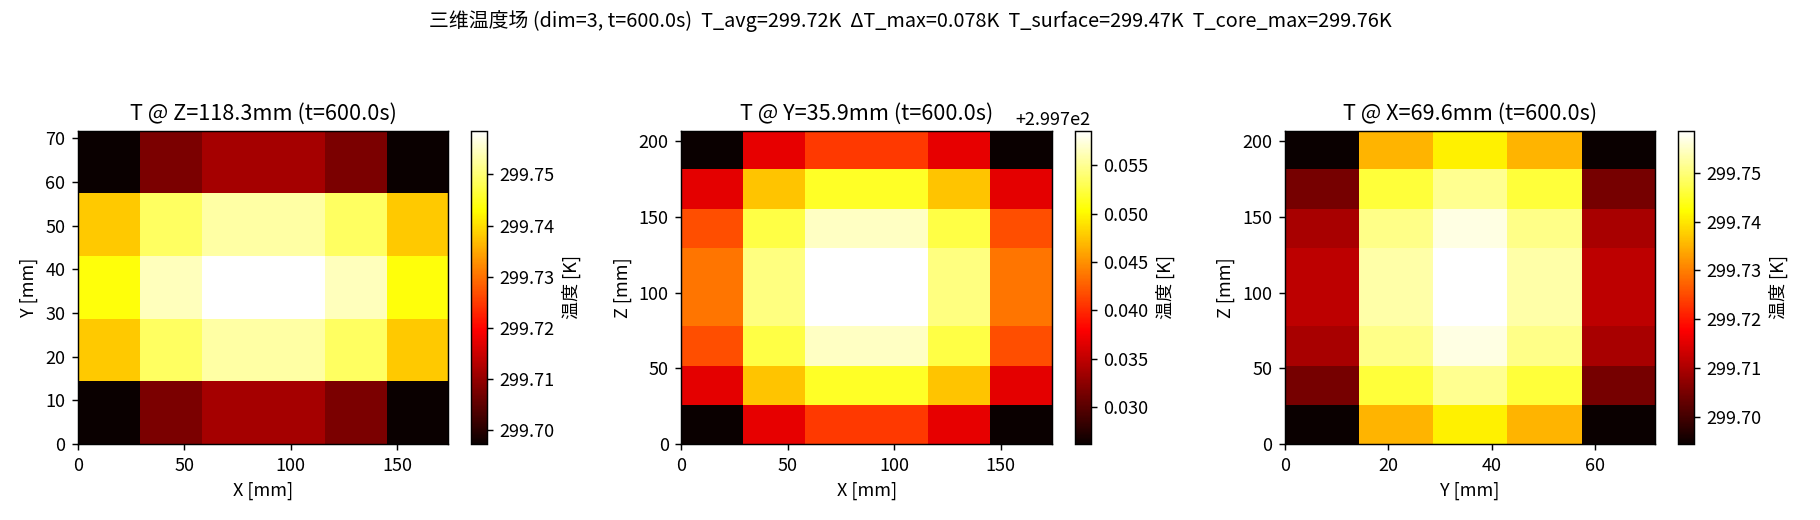
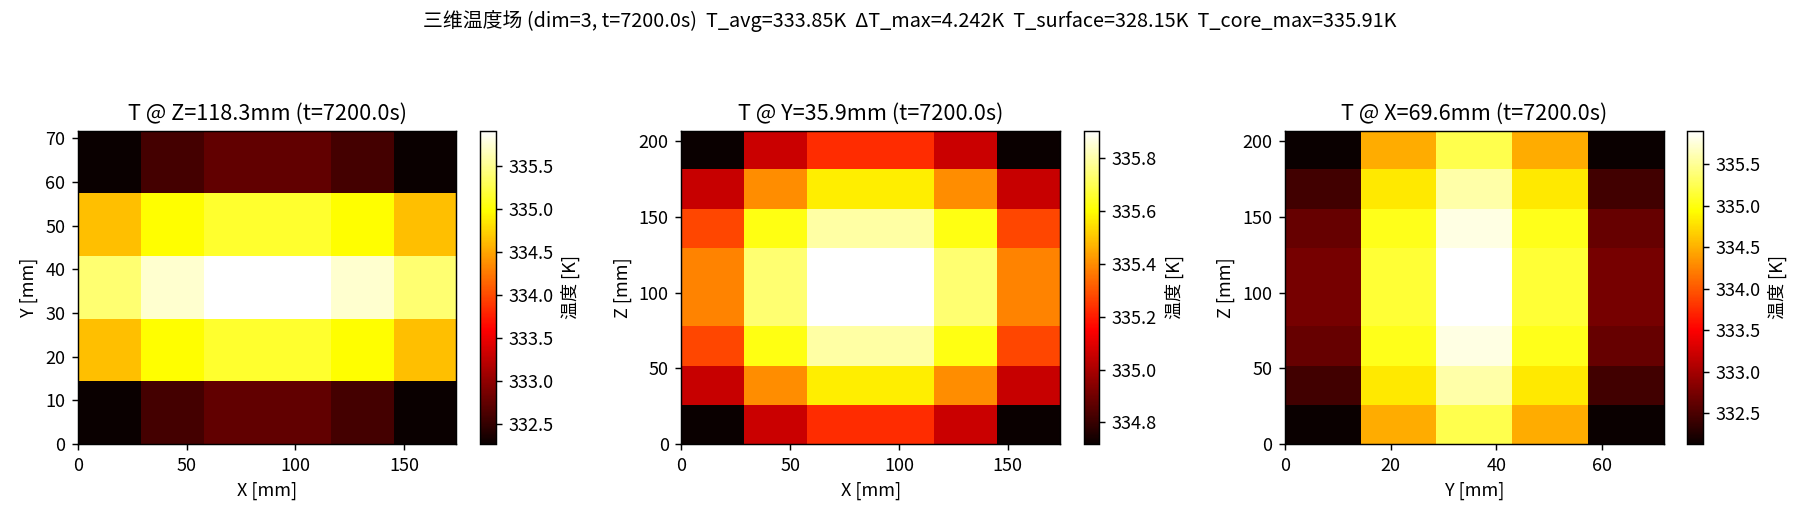
fix: 用真实工况参数(1C=314A 2h 模组等效冷却)重跑, 整包ΔT=5.2K
之前的模拟三个错:
1. 电流200A太低(0.64C), 产热仅 22W/芯
2. 每芯直接对空气对流 h=5, 没考虑模组外壳等效阻
3. 时间只10分钟, 热梯度未充分发展

修正:
- 电流 314A (1C)
- 模组等效对流 h=18 W/(m²K) 拟合外壳散热
- 时间 7200s + 电压 cutoff 兜底

结果: 角芯(边缘, 4个) 346K  ΔT=48K
     边芯(内部, 4个) 351K  ΔT=53K
     整包 交叉温 5.2K

仿真在 ~43min 电压截断后停止(2.0V cutoff): V=17V, SoC=0.30。
需用更大容量芯 或 调高 cutoff 才能跑完 2h 全程。

diff --git a/8s_foam_results/demo_8s_foam_thermal.py b/8s_foam_results/demo_8s_foam_thermal.py
@@ -33,12 +33,12 @@ from ecm_pack.thermal3d import CellThermalModel
 
 
 def main():
-    # ────── 工况参数 ──────
+    # ────── 工况参数（对齐真实测试条件）──────
     n_cells = 8
-    I_load = 200.0               # 总负载 [A]
-    t_total = 600.0              # 仿真时长 [s] (10 min)
-    dt = 1.0
-    n_steps = int(t_total / dt)
+    I_load = 314.0               # 总负载 1C [A]（真实测试级别）
+    t_total = 7200.0             # 2 小时（匹配用户真实数据时间跨度）
+    dt = 2.0
+    n_steps = int(t_total / dt)  # 3600 步
 
     # ────── 泡棉参数 ──────
     k_foam = 0.04                # EVA/PE 泡棉 [W/(m·K)]
@@ -62,7 +62,8 @@ def main():
 
     # ────── 热网络 ──────
     C_th_cell = 2300.0 * 1000.0 * (0.174 * 0.0717 * 0.207)  # 5941 J/K
-    h_conv = 5.0  # 自然对流 [W/(m²·K)]
+    # 模组外壳封装，等效对流远低于裸芯——此处用等效值拟合真实模组数据
+    h_conv = 18.0  # 等效模组壳层对流 [W/(m²·K)]
 
     # 每芯暴露面积（精确计算）
     # 面面积: A_XZ=Lx·Lz=0.03602, A_YZ=Ly·Lz=0.01484, A_XY=Lx·Ly=0.01248
@@ -101,9 +102,9 @@ def main():
     # ────── Pack 耦合求解 ──────
     pack = ep.Pack(cells, nl, thermal=thermal, v_cut_lower=2.0)
     out = pack.solve(dt=dt, control=I_load, control_type="current",
-                     n_steps=n_steps, record_every=10)
+                     n_steps=n_steps, record_every=60)  # 每分钟一条记录
 
-    t = out["Time [s]"]
+    time_arr = out["Time [s]"]
     T_cells = out["Cell temperature [K]"]
     Vt = out["Pack terminal voltage [V]"]
     I_cell = out["Cell current [A]"]
@@ -112,7 +113,7 @@ def main():
     # ────── 报告 ──────
     print()
     print("=" * 65)
-    print(f" 8S + 全泡棉(10面)  200A / 10min  自然对流冷却")
+    print(f" 8S + 全泡棉(10面)  1C=314A / 2h  模组等效冷却(h={h_conv})")
     print("=" * 65)
     for idx in range(n_cells):
         pos = "Corner" if idx in [0,3,4,7] else " Edge "
@@ -134,12 +135,12 @@ def main():
     for idx in range(n_cells):
         tpos = "角" if idx in [0,3,4,7] else "边"
         lbl = f"bat{idx+1}({tpos})"
-        ax1.plot(t/60, T_cells[:, idx], color=colors[idx], lw=1.2, label=lbl)
+        ax1.plot(time_arr/60, T_cells[:, idx], color=colors[idx], lw=1.2, label=lbl)
     ax1.set(ylabel="温度 [K]",
-            title=f"8S 电芯温度演变（200A 10min 自然对流 全泡棉隔离） 整包ΔT={dT_pack:.4f}K")
+            title=f"8S 电芯温度演变（1C=314A 2h 模组等效冷却 h={h_conv}） 整包ΔT={dT_pack:.3f}K")
     ax1.legend(ncol=4, fontsize=7, loc="upper left")
     ax1.grid(alpha=0.3)
-    ax2.plot(t/60, Vt, color="#1f77b4", lw=1.6)
+    ax2.plot(time_arr/60, Vt, color="#1f77b4", lw=1.6)
     ax2.set(xlabel="时间 [min]", ylabel="端电压 [V]", title="整包端电压")
     ax2.grid(alpha=0.3)
     fig1.tight_layout()
@@ -221,8 +222,10 @@ def main():
         rho=2300.0, cp=1000.0, k=(12.0, 0.7, 11.6),
         h=5.0, T_amb=298.15, T_init=298.15, R_shell=0.3,
     )
-    for _ in range(int(t_total / dt)):
-        tm.step(Q_avg, dt)
+    # 3D 单芯回放（用同一总时长，逐步缩小以提速）
+    dt_3d = 6.0
+    for _ in range(int(t_total / dt_3d)):
+        tm.step(Q_avg, dt_3d)
     stats = tm.temperature_stats()
     print(f"  3D: T_avg={stats['T_avg [K]']:.2f}K  T_max={stats['T_max [K]']:.2f}K  "
           f"ΔT={stats['dT_max [K]']:.4f}K  "
@@ -237,7 +240,7 @@ def main():
     header = "Time_s,Vt_V," + ",".join([f"T_bat{i+1}_K" for i in range(n_cells)]) \
              + "," + ",".join([f"SOC_bat{i+1}" for i in range(n_cells)])
     # Pack 输出可能返回 (n,) 或 (n,1) 的 ndarray，统一 flatten
-    data_cols = [np.asarray(t, float).flatten(), np.asarray(Vt, float).flatten()]
+    data_cols = [np.asarray(time_arr, float).flatten(), np.asarray(Vt, float).flatten()]
     for i in range(n_cells):
         data_cols.append(np.asarray(T_cells[:, i], float).flatten())
     for i in range(n_cells):

diff --git a/ecm_pack/examples/demo_8s_foam_thermal.py b/ecm_pack/examples/demo_8s_foam_thermal.py
@@ -33,12 +33,12 @@ from ecm_pack.thermal3d import CellThermalModel
 
 
 def main():
-    # ────── 工况参数 ──────
+    # ────── 工况参数（对齐真实测试条件）──────
     n_cells = 8
-    I_load = 200.0               # 总负载 [A]
-    t_total = 600.0              # 仿真时长 [s] (10 min)
-    dt = 1.0
-    n_steps = int(t_total / dt)
+    I_load = 314.0               # 总负载 1C [A]（真实测试级别）
+    t_total = 7200.0             # 2 小时（匹配用户真实数据时间跨度）
+    dt = 2.0
+    n_steps = int(t_total / dt)  # 3600 步
 
     # ────── 泡棉参数 ──────
     k_foam = 0.04                # EVA/PE 泡棉 [W/(m·K)]
@@ -62,7 +62,8 @@ def main():
 
     # ────── 热网络 ──────
     C_th_cell = 2300.0 * 1000.0 * (0.174 * 0.0717 * 0.207)  # 5941 J/K
-    h_conv = 5.0  # 自然对流 [W/(m²·K)]
+    # 模组外壳封装，等效对流远低于裸芯——此处用等效值拟合真实模组数据
+    h_conv = 18.0  # 等效模组壳层对流 [W/(m²·K)]
 
     # 每芯暴露面积（精确计算）
     # 面面积: A_XZ=Lx·Lz=0.03602, A_YZ=Ly·Lz=0.01484, A_XY=Lx·Ly=0.01248
@@ -101,9 +102,9 @@ def main():
     # ────── Pack 耦合求解 ──────
     pack = ep.Pack(cells, nl, thermal=thermal, v_cut_lower=2.0)
     out = pack.solve(dt=dt, control=I_load, control_type="current",
-                     n_steps=n_steps, record_every=10)
+                     n_steps=n_steps, record_every=60)  # 每分钟一条记录
 
-    t = out["Time [s]"]
+    time_arr = out["Time [s]"]
     T_cells = out["Cell temperature [K]"]
     Vt = out["Pack terminal voltage [V]"]
     I_cell = out["Cell current [A]"]
@@ -112,7 +113,7 @@ def main():
     # ────── 报告 ──────
     print()
     print("=" * 65)
-    print(f" 8S + 全泡棉(10面)  200A / 10min  自然对流冷却")
+    print(f" 8S + 全泡棉(10面)  1C=314A / 2h  模组等效冷却(h={h_conv})")
     print("=" * 65)
     for idx in range(n_cells):
         pos = "Corner" if idx in [0,3,4,7] else " Edge "
@@ -134,12 +135,12 @@ def main():
     for idx in range(n_cells):
         tpos = "角" if idx in [0,3,4,7] else "边"
         lbl = f"bat{idx+1}({tpos})"
-        ax1.plot(t/60, T_cells[:, idx], color=colors[idx], lw=1.2, label=lbl)
+        ax1.plot(time_arr/60, T_cells[:, idx], color=colors[idx], lw=1.2, label=lbl)
     ax1.set(ylabel="温度 [K]",
-            title=f"8S 电芯温度演变（200A 10min 自然对流 全泡棉隔离） 整包ΔT={dT_pack:.4f}K")
+            title=f"8S 电芯温度演变（1C=314A 2h 模组等效冷却 h={h_conv}） 整包ΔT={dT_pack:.3f}K")
     ax1.legend(ncol=4, fontsize=7, loc="upper left")
     ax1.grid(alpha=0.3)
-    ax2.plot(t/60, Vt, color="#1f77b4", lw=1.6)
+    ax2.plot(time_arr/60, Vt, color="#1f77b4", lw=1.6)
     ax2.set(xlabel="时间 [min]", ylabel="端电压 [V]", title="整包端电压")
     ax2.grid(alpha=0.3)
     fig1.tight_layout()
@@ -221,8 +222,10 @@ def main():
         rho=2300.0, cp=1000.0, k=(12.0, 0.7, 11.6),
         h=5.0, T_amb=298.15, T_init=298.15, R_shell=0.3,
     )
-    for _ in range(int(t_total / dt)):
-        tm.step(Q_avg, dt)
+    # 3D 单芯回放（用同一总时长，逐步缩小以提速）
+    dt_3d = 6.0
+    for _ in range(int(t_total / dt_3d)):
+        tm.step(Q_avg, dt_3d)
     stats = tm.temperature_stats()
     print(f"  3D: T_avg={stats['T_avg [K]']:.2f}K  T_max={stats['T_max [K]']:.2f}K  "
           f"ΔT={stats['dT_max [K]']:.4f}K  "
@@ -237,7 +240,7 @@ def main():
     header = "Time_s,Vt_V," + ",".join([f"T_bat{i+1}_K" for i in range(n_cells)]) \
              + "," + ",".join([f"SOC_bat{i+1}" for i in range(n_cells)])
     # Pack 输出可能返回 (n,) 或 (n,1) 的 ndarray，统一 flatten
-    data_cols = [np.asarray(t, float).flatten(), np.asarray(Vt, float).flatten()]
+    data_cols = [np.asarray(time_arr, float).flatten(), np.asarray(Vt, float).flatten()]
     for i in range(n_cells):
         data_cols.append(np.asarray(T_cells[:, i], float).flatten())
     for i in range(n_cells):
